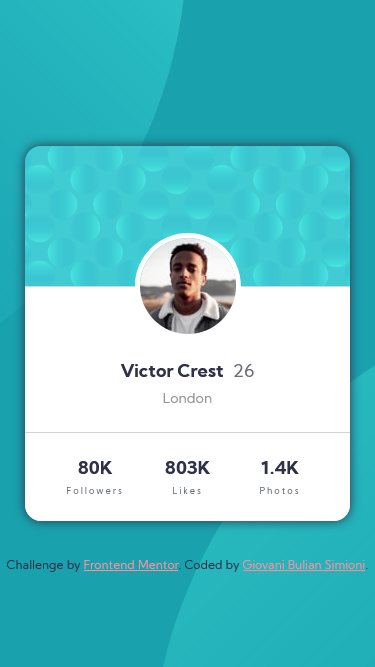
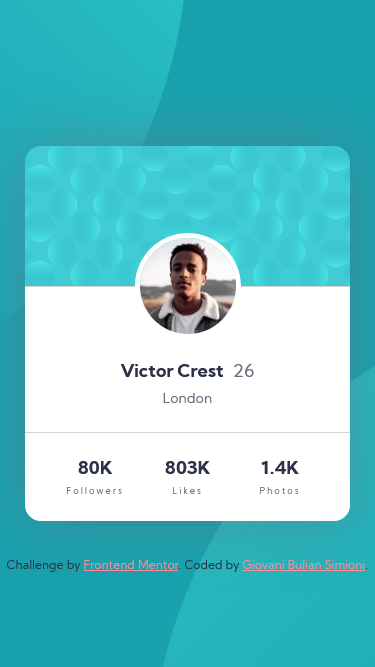
changed the box-shadow

diff --git a/css/style.css b/css/style.css
@@ -6,6 +6,7 @@
     --dark-grayish-blue: hsl(227, 10%, 46%);
     --dark-gray: hsl(0, 0%, 59%);
     --bright-orange: hsl(31, 77%, 52%);
+    --grayish-blue: hsla(227, 10%, 46%, 0.5);
 }
 
 * {
@@ -48,7 +49,7 @@ body {
                             "stats";
     justify-items: stretch;
     margin-top: 6rem;
-    box-shadow: 0 0 1rem var(--very-dark-desaturated-blue);
+    box-shadow: 0 0 6rem var(--grayish-blue);
 }
 
 .card-top {
@@ -91,7 +92,7 @@ body {
 
 .profile-location {
     font-size: 1.4rem;
-    color: var(--dark-gray);
+    color: var(--dark-grayish-blue);
     font-weight: 400;
 }
 
